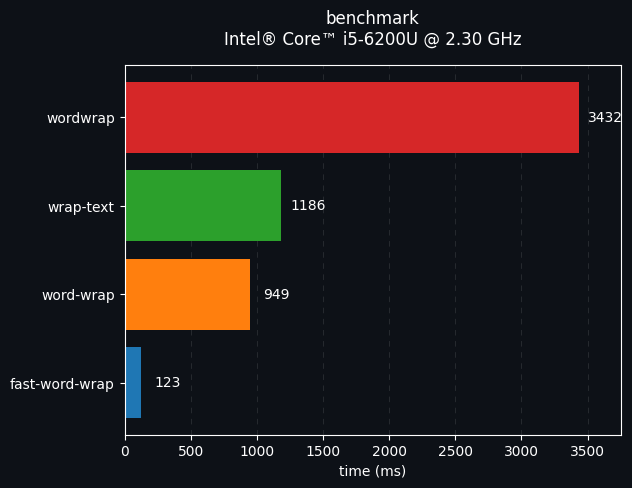
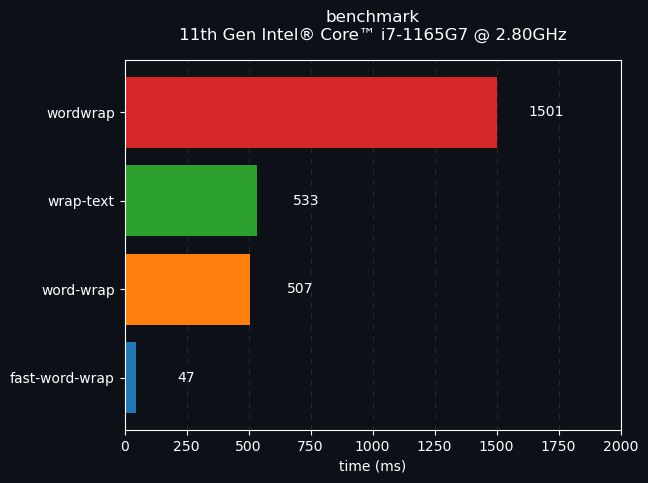
update graph

Changed region(s): [[0.0, 0.1242, 0.9921, 0.9938], [0.2706, 0.0, 0.8718, 0.0932]]

diff --git a/barh.py b/barh.py
@@ -19,16 +19,16 @@ ax.set_facecolor("#0d1117")
 # data
 packages = ("wordwrap", "wrap-text", "word-wrap", "fast-word-wrap")
 y_pos = np.arange(len(packages))
-times = (3432, 1186, 949, 123)
+times = (1501, 533, 507, 47)
 
 # plot
 ax.barh(y_pos, times, color=["tab:red", "tab:green", "tab:orange", "tab:blue"])
 ax.set_yticks(y_pos)
 ax.set_yticklabels(packages)
 ax.invert_yaxis()  # labels read top-to-bottom
-ax.set_xlim([0, 3750])
+ax.set_xlim([0, 2000])
 ax.set_xlabel("time (ms)")
-ax.set_title("benchmark\nIntel\u00ae Core\u2122 i5-6200U @ 2.30 GHz", pad=15)
+ax.set_title("benchmark\n11th Gen Intel\u00ae Core\u2122 i7-1165G7 @ 2.80GHz", pad=15)
 ax.grid(axis="x", dashes=(5, 5), alpha=0.1)
 ax.set_axisbelow(True)
 
